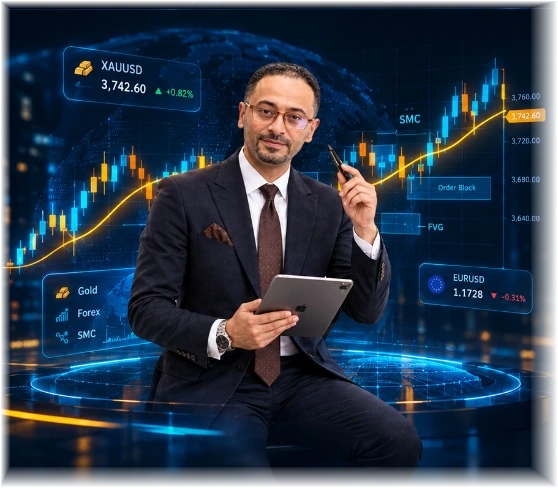
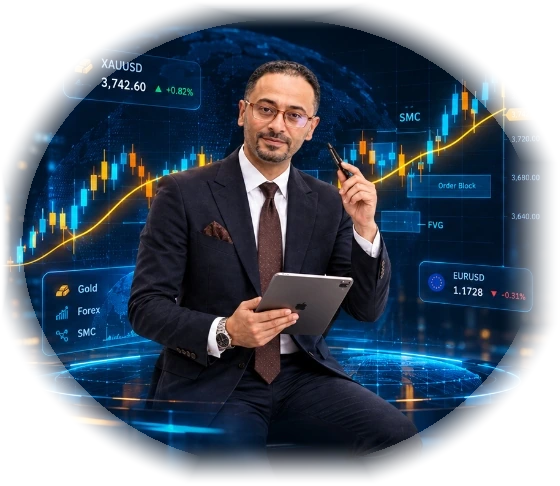
fix(hero): seamless hero image integration with radial gradient edge dissolution and removal of bounding frame

diff --git a/frontend/app/components/Hero.js b/frontend/app/components/Hero.js
@@ -218,7 +218,7 @@ export default function Hero() {
         position: 'relative',
         overflow: 'hidden',
         padding: 'calc(var(--ticker-height, 2.75rem) + clamp(1.25rem, 2.2vw, 1.75rem)) 0 clamp(2.5rem, 5vw, 3.75rem)',
-        background: 'radial-gradient(ellipse 80% 60% at 50% 10%, rgba(4, 136, 248, 0.08) 0%, transparent 70%), var(--bg-dark)',
+        background: 'radial-gradient(ellipse 80% 60% at 50% 10%, rgba(4, 136, 248, 0.1) 0%, transparent 70%), #010A19',
       }}
     >
       {/* Background ambient lighting */}
@@ -1500,45 +1500,47 @@ export default function Hero() {
                 zIndex: 2,
               }}
             >
-              {/* Backlight Ambient Glow (Cyan & Electric Blue) */}
+              {/* Ambient atmospheric backlighting (Cyan & Blue Glow) */}
               <div
                 aria-hidden
                 style={{
                   position: 'absolute',
-                  inset: '-10% -5% 0% -5%',
-                  background: 'radial-gradient(ellipse 65% 55% at 50% 50%, rgba(0, 242, 254, 0.16) 0%, rgba(4, 136, 248, 0.12) 42%, transparent 75%)',
+                  inset: '-10% -8% -8% -8%',
+                  background: 'radial-gradient(ellipse 70% 60% at 48% 50%, rgba(0, 242, 254, 0.14) 0%, rgba(4, 136, 248, 0.09) 45%, transparent 75%)',
                   borderRadius: '50%',
-                  filter: 'blur(50px)',
+                  filter: 'blur(55px)',
                   pointerEvents: 'none',
                   zIndex: 1,
                 }}
               />
 
-              {/* Main Visual Image matching reference exactly */}
+              {/* Main Visual Image seamlessly integrated with radial edge dissolution */}
               <div
                 style={{
                   position: 'relative',
                   width: '100%',
-                  maxWidth: '660px',
+                  maxWidth: '740px',
                   display: 'flex',
                   alignItems: 'center',
                   justifyContent: 'center',
                   zIndex: 2,
+                  WebkitMaskImage: 'radial-gradient(ellipse 92% 88% at 48% 50%, #000000 60%, rgba(0, 0, 0, 0.75) 78%, transparent 100%)',
+                  maskImage: 'radial-gradient(ellipse 92% 88% at 48% 50%, #000000 60%, rgba(0, 0, 0, 0.75) 78%, transparent 100%)',
                 }}
               >
-                <picture>
-                  <source srcSet="/assets/Images/Main/hero_fintech_visual@2x.webp" type="image/webp" />
+                <picture style={{ width: '100%', display: 'flex', justifyContent: 'center' }}>
+                  <source srcSet="/assets/Images/Main/hero_fintech_visual@2x.webp?v=3" type="image/webp" />
                   <img
-                    src="/assets/Images/Main/hero_fintech_visual.png"
+                    src="/assets/Images/Main/hero_fintech_visual.png?v=3"
                     alt="FXENGIN - مهندس الفوركس Gamal Ahmed SMC Trading Platform"
                     style={{
                       width: '100%',
                       height: 'auto',
-                      maxHeight: 'clamp(380px, 48vw, 560px)',
+                      maxHeight: 'clamp(440px, 52vw, 620px)',
                       objectFit: 'contain',
                       display: 'block',
-                      filter: 'drop-shadow(0 15px 40px rgba(0, 3, 13, 0.95)) drop-shadow(0 0 25px rgba(0, 242, 254, 0.2))',
-                      transition: 'transform 0.4s ease',
+                      userSelect: 'none',
+                      pointerEvents: 'none',
                     }}
                   />
                 </picture>
